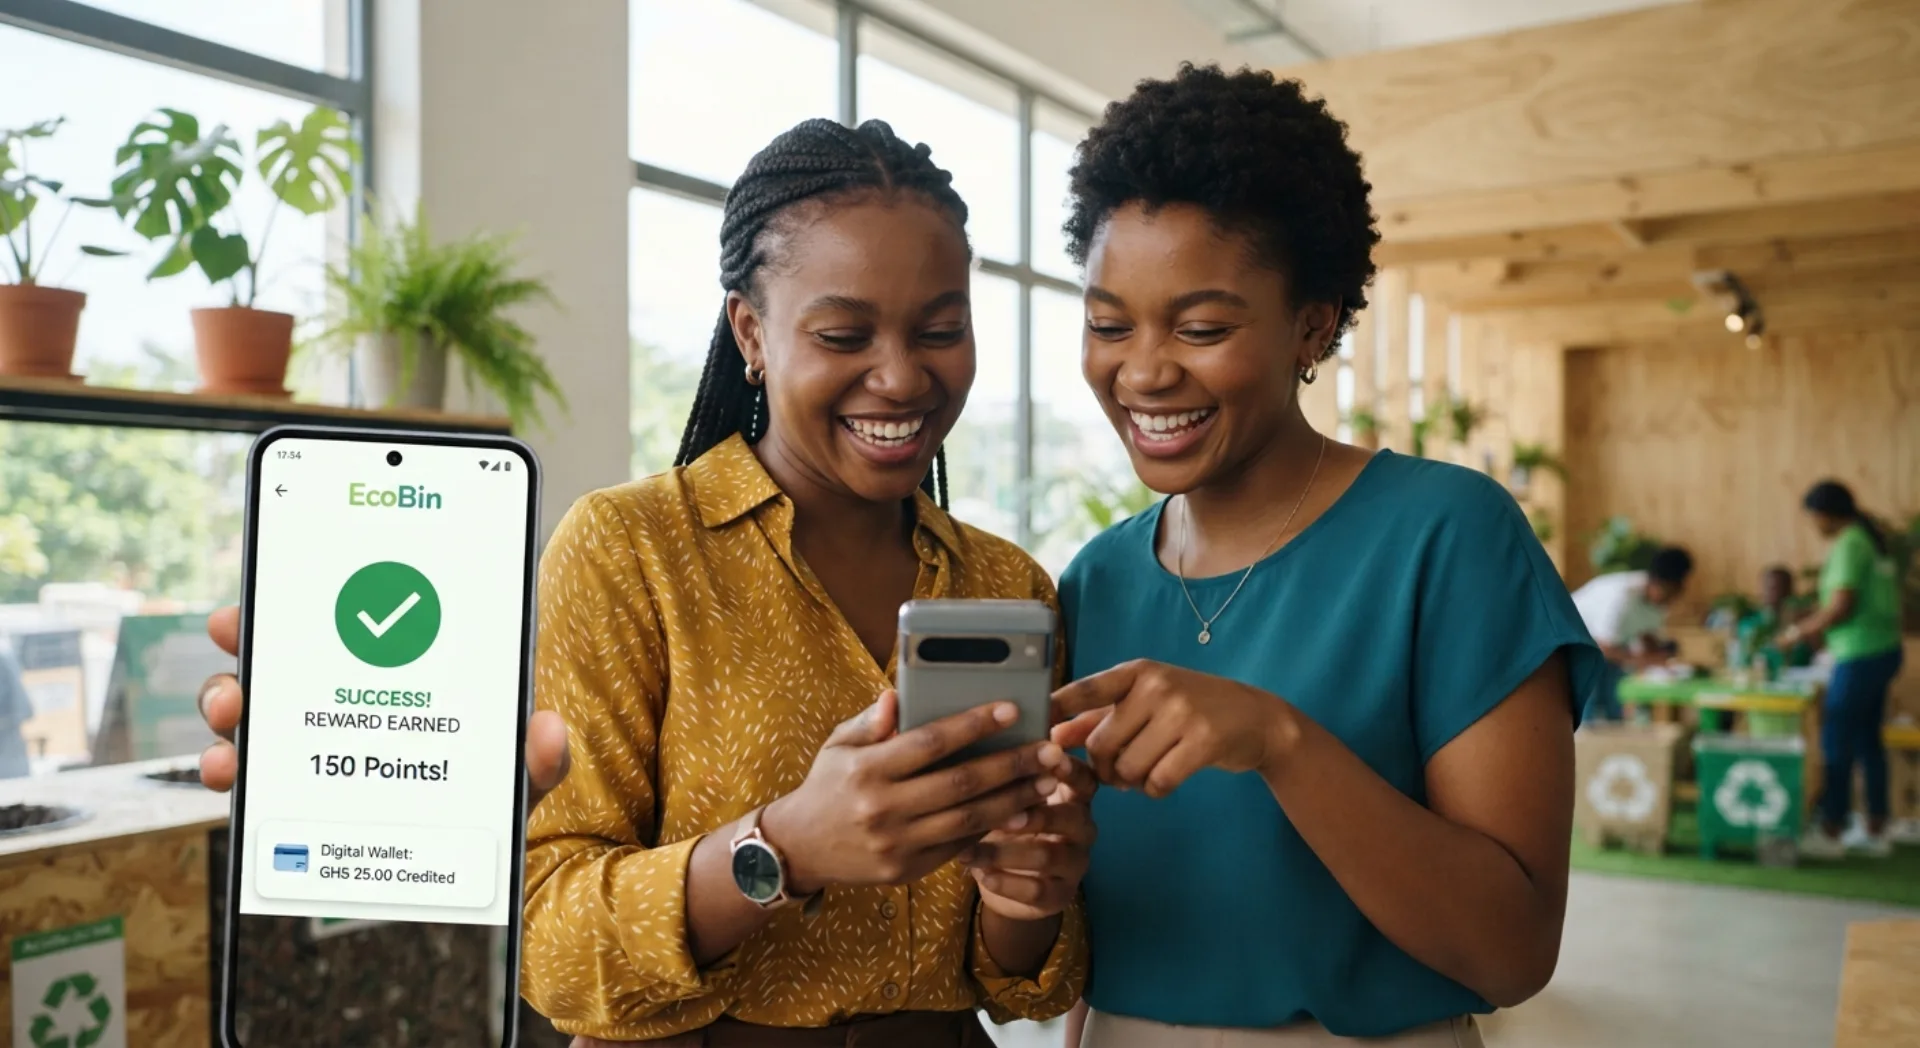
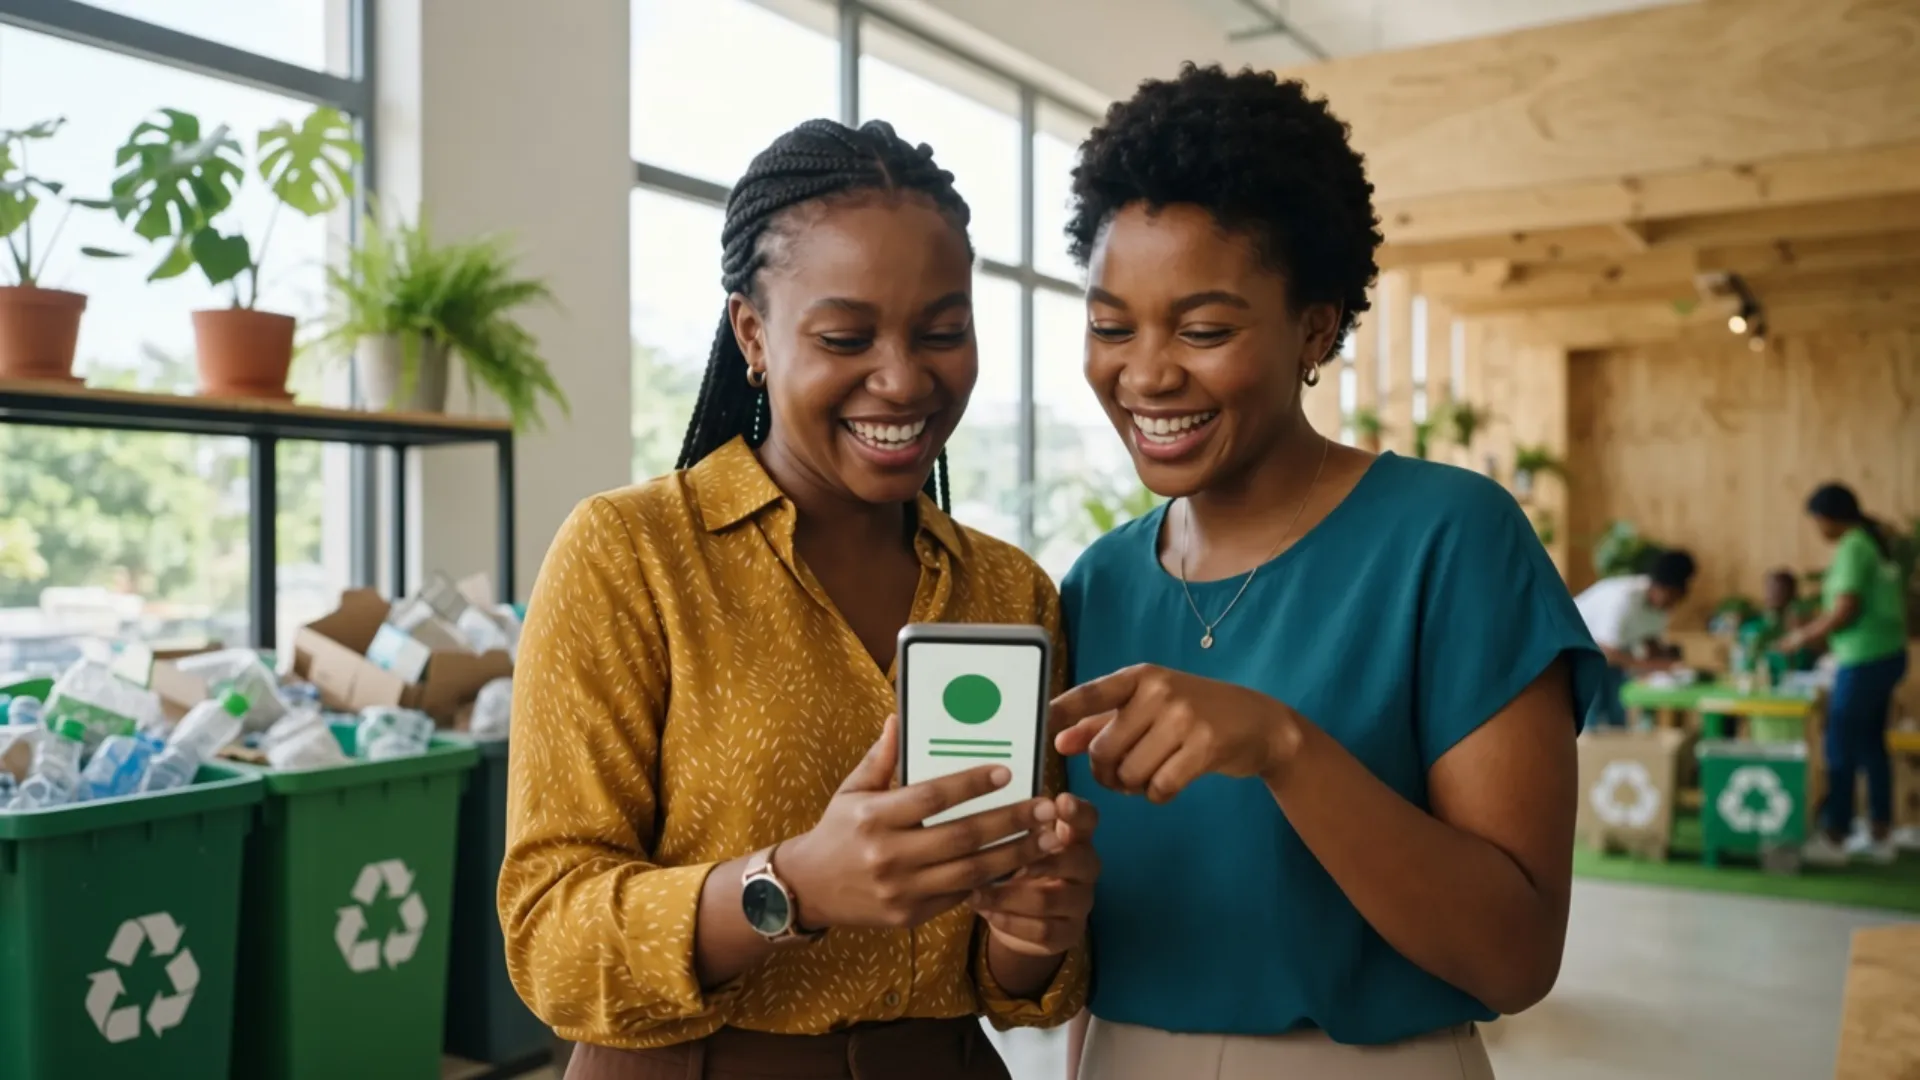
Update multiple components to enhance layout consistency and improve content clarity, including adjustments to padding, typography, and image sources.

diff --git a/src/components/Solutions.jsx b/src/components/Solutions.jsx
@@ -4,46 +4,83 @@ import { Eyebrow } from './Features.jsx'
 
 const solutions = [
   {
-    image: '/our-2.svg',
-    imageAlt: 'Hands holding a phone open to scheduled and past pickups',
-    title: 'Pickup Scheduling',
-    body: 'Request a pickup when your bin is actually full. Demand-based scheduling and route planning send trucks where they are needed and cut down unnecessary trips.',
-    points: [
-      'Collection planned from real bin conditions',
-      'Fewer overflowing bins and wasted visits',
-      'Routes and resources planned from data',
-    ],
-  },
-  {
-    image: '/our-4.svg',
-    imageAlt: 'Phone scanning a plastic bottle with the EcoBin app',
-    title: 'AI waste Scanner',
-    body: 'Point your phone at an item and get a suggestion for where it belongs. EcoBin is exploring AI-assisted waste identification to make sorting easier for every household.',
-    points: [
-      'Sorting guidance at the moment of disposal',
-      'Supports better separation and recovery',
-      'Educational tips that match what you scan',
-    ],
-  },
-  {
     image: '/our-1.svg',
     imageAlt: 'Hands holding a phone open to the EcoBin waste digital guide',
-    title: 'Waste Digital Guide',
-    body: 'Learn simple, proactive steps to properly rinse and prepare materials, ensuring your waste actually gets recycled instead of landfilled on our app.',
+    title: 'Waste Education & Digital Guide',
+    tagline: 'Know your waste. Make better choices.',
+    body: 'Learn how to sort, prepare and dispose of household waste responsibly with practical guides and educational resources in the EcoBin app.',
     points: [
-      'Receive safety-first prompts articles that instantly flag dangerous items like batteries, electronics, or medical waste and direct you to specialised drop-off points.',
-      'Discover how to avoid the common trap of throwing non-recyclable items into the recycling bin out of good intentions, keeping the overall waste stream clean.',
+      {
+        label: 'Prepare waste correctly:',
+        text: 'Learn how to clean, sort and prepare recyclable materials for recovery.',
+      },
+      {
+        label: 'Handle hazardous waste safely:',
+        text: 'Understand how to identify batteries, electronics, medical waste and other potentially hazardous items, with guidance on safer handling and appropriate disposal.',
+      },
+      {
+        label: "Avoid common sorting mistakes:",
+        text: "Know what belongs in your recycling bin and what doesn't, helping prevent contamination and improve material recovery.",
+      },
+    ],
+  },
+  {
+    image: '/our-2.svg',
+    imageAlt: 'Hands holding a phone open to scheduled and past pickups',
+    title: 'Smart Pickup Scheduling',
+    tagline: 'Waste collection when you need it.',
+    body: 'Whether you need a household waste pickup or manage waste collection across multiple locations, EcoBin makes collection management more convenient and efficient. Request collections when needed, monitor participating bins and use collection data to make better operational decisions.',
+    points: [
+      {
+        label: 'Flexible pickup requests:',
+        text: 'Request a collection when your bin is full, arrange bulky waste removal or schedule a one-time pickup after parties, events and other occasions.',
+      },
+      {
+        label: 'Smarter route planning:',
+        text: 'Use collection data to help plan efficient routes and allocate resources where they are needed.',
+      },
     ],
   },
   {
     image: '/our-3.svg',
     imageAlt: 'Phone showing a smart bin fill level and pickup chart',
     title: 'Smart Bin Monitoring',
-    body: 'Sensors on participating bins report how full they are, so collection needs are visible instead of guessed and overflow can be prevented.',
+    tagline: 'Know when your bin needs attention.',
+    body: "EcoBin's smart bin technology uses sensors to monitor waste levels in participating bins, providing better visibility into collection needs and helping prevent overflowing bins.",
     points: [
-      'Fill-level readings sent from the bin',
-      'Better visibility across participating households',
-      'Low-power connectivity explored for distributed bins',
+      {
+        label: 'Real-time fill-level visibility:',
+        text: 'Monitor how full participating bins are.',
+      },
+      {
+        label: 'Smarter collection decisions:',
+        text: 'Use bin-level information to identify which households need collection.',
+      },
+      {
+        label: 'Efficient connectivity:',
+        text: 'Explore low-power communication technologies to support reliable monitoring across distributed communities.',
+      },
+    ],
+  },
+  {
+    image: '/our-4.svg',
+    imageAlt: 'Phone scanning a plastic bottle with the EcoBin app',
+    title: 'AI-Powered Waste Scanner',
+    tagline: 'Not sure where it belongs? Just scan it.',
+    body: "Make waste sorting easier with AI-assisted identification. Simply point your phone's camera at an item and receive guidance on how to sort or dispose of it.",
+    points: [
+      {
+        label: 'Instant sorting guidance:',
+        text: 'Get suggestions on the appropriate waste category for an item.',
+      },
+      {
+        label: 'Better waste separation:',
+        text: 'Learn how to distinguish recyclable materials from other household waste.',
+      },
+      {
+        label: 'Learn as you scan:',
+        text: 'Discover useful disposal tips and educational information about the items you scan.',
+      },
     ],
   },
 ]
@@ -58,7 +95,7 @@ export default function Solutions() {
 
   return (
     <section id="features" className="scroll-mt-24 bg-white">
-      <div className="section-reveal mx-auto w-full max-w-[1200px] px-5 py-16 sm:px-6 lg:py-24">
+      <div className="section-reveal mx-auto w-full max-w-[1200px] px-5 py-16 sm:px-6 lg:py-[60px]">
         <div className="grid gap-6 lg:grid-cols-[1.05fr_0.95fr] lg:items-end lg:gap-16">
           <div>
             <Eyebrow>Our Solutions</Eyebrow>
@@ -88,16 +125,19 @@ export default function Solutions() {
               <h3 className="text-[28px] leading-tight font-medium tracking-tight text-ink sm:text-[36px]">
                 {slide.title}
               </h3>
+              <p className="mt-3 text-[16px] leading-relaxed font-semibold text-ink">{slide.tagline}</p>
               <p className="mt-4 text-[16px] leading-relaxed text-ink">{slide.body}</p>
               <ul className="mt-8 space-y-5">
                 {slide.points.map((point) => (
-                  <li key={point} className="flex items-start gap-3 text-[16px] leading-relaxed text-ink">
+                  <li key={point.label} className="flex items-start gap-3 text-[16px] leading-relaxed text-ink">
                     <LuCheck
                       className="mt-1 size-4 shrink-0 text-brand"
                       strokeWidth={2.5}
                       aria-hidden="true"
                     />
-                    <span>{point}</span>
+                    <span>
+                      <span className="font-semibold">{point.label}</span> {point.text}
+                    </span>
                   </li>
                 ))}
               </ul>

diff --git a/src/components/MissionVision.jsx b/src/components/MissionVision.jsx
@@ -10,8 +10,8 @@ function SectionLabel({ children }) {
 export default function MissionVision() {
   return (
     <>
-      <section id="mission" className="scroll-mt-24 bg-white">
-        <div className="mx-auto grid w-full max-w-[1200px] items-center gap-10 px-5 py-16 sm:px-6 lg:grid-cols-2 lg:gap-16 lg:py-20">
+      <section id="mission" className="scroll-mt-0 bg-white">
+        <div className="mx-auto grid w-full max-w-[1200px] items-center gap-10 px-5 py-16 sm:px-6 lg:grid-cols-2 lg:gap-16 lg:py-[60px]">
           <div className="motion-from-left">
             <SectionLabel>Our Mission</SectionLabel>
             <h2 className="mt-5 text-[40px] leading-[1.15] font-medium tracking-tight text-ink">
@@ -37,7 +37,7 @@ export default function MissionVision() {
       </section>
 
       <section id="vision" className="scroll-mt-24 bg-white">
-        <div className="mx-auto grid w-full max-w-[1200px] items-center gap-10 px-5 py-16 sm:px-6 lg:grid-cols-2 lg:gap-16 lg:py-20">
+        <div className="mx-auto grid w-full max-w-[1200px] items-center gap-10 px-5 py-16 sm:px-6 lg:grid-cols-2 lg:gap-16 lg:py-[60px]">
           <img
             src="/our-vision.webp"
             width="1200"
@@ -63,7 +63,7 @@ export default function MissionVision() {
       </section>
 
       <section id="values" className="scroll-mt-24 bg-[#f5f6f8]">
-        <div className="mx-auto grid w-full max-w-[1200px] items-center gap-10 px-5 py-16 sm:px-6 lg:grid-cols-2 lg:gap-16 lg:py-24">
+        <div className="mx-auto grid w-full max-w-[1200px] items-center gap-10 px-5 py-16 sm:px-6 lg:grid-cols-2 lg:gap-16 lg:py-[60px]">
           <div className="motion-from-left space-y-8">
             <div>
               <h2 className="text-[40px] font-medium tracking-tight text-ink">

diff --git a/src/components/Contact.jsx b/src/components/Contact.jsx
@@ -75,7 +75,7 @@ export default function Contact() {
 
   return (
     <section id="contact" className="scroll-mt-24 bg-white">
-      <div className="mx-auto w-full max-w-[1120px] px-5 py-8 pb-16 sm:px-6">
+      <div className="mx-auto w-full max-w-[1120px] px-5 py-8 pb-16 sm:px-6 lg:py-[60px]">
         <div className="section-reveal text-center">
           <h2 className="text-[40px] leading-[1.15] font-medium tracking-tight text-ink">
             Still have a question?
@@ -85,9 +85,9 @@ export default function Contact() {
 
         <div data-motion-group className="mt-10 grid gap-5 lg:grid-cols-[0.82fr_1.18fr]">
           <div className="motion-card flex min-h-0 flex-col rounded-[28px] bg-[#f4f6fb] p-8 sm:p-10 lg:h-[597px]">
-            <h3 className="text-[32px] leading-[1.15] font-bold tracking-tight sm:text-[40px]">
+            <h5 className="font-sans text-[32px] font-medium text-[#0F1621]">
               How to reach us?
-            </h3>
+            </h5>
             <ul className="mt-auto space-y-6 pt-16">
               <li>
                 <a href="tel:+233208420372" className="flex items-center gap-4 text-slate-800">
@@ -99,7 +99,7 @@ export default function Contact() {
               </li>
               <li>
                 <a
-                  href="https://www.google.com/maps/search/?api=1&query=Accra+Kasoa+Ghana"
+                  href="https://www.google.com/maps/search/?api=1&query=Trayton+Technologies"
                   target="_blank"
                   rel="noreferrer"
                   className="flex items-center gap-4 text-slate-800"

diff --git a/src/components/Rewards.jsx b/src/components/Rewards.jsx
@@ -13,18 +13,17 @@ export default function Rewards() {
           aria-hidden="true"
         />
         <div
-          className="pointer-events-none absolute inset-0 bg-gradient-to-b from-black/70 via-black/65 to-black/75"
+          className="pointer-events-none absolute inset-0 bg-gradient-to-r from-black/80 via-black/55 to-black/25"
           aria-hidden="true"
         />
 
         <div className="relative z-10 mx-auto flex max-w-3xl flex-col items-center">
           <h2 className="text-[40px] leading-[1.12] font-medium tracking-tight text-white">
-            Don&apos;t just Schedule pickups,
-            <br />
-            get excited and earn
+            Learn, Earn & Make a Difference.
           </h2>
-          <p className="mt-5 max-w-xl text-base leading-relaxed text-white/90 sm:text-lg">
-            Read articles, watch videos to earn free pickup on your next full bin
+          <p className="mt-5 max-w-2xl text-base leading-relaxed text-white/90 sm:text-lg">
+            Read articles, watch videos and complete quizzes to earn points. Redeem your points for
+            exciting rewards while building better waste habits.
           </p>
           <a
             href="#download"

diff --git a/src/components/HowItWorks.jsx b/src/components/HowItWorks.jsx
@@ -3,15 +3,14 @@ import { Eyebrow } from './Features.jsx'
 export default function HowItWorks() {
   return (
     <section id="how-it-works" className="scroll-mt-24 bg-white">
-      <div className="mx-auto w-full max-w-[1160px] px-5 py-16 sm:px-6 lg:py-24">
+      <div className="mx-auto w-full max-w-[1160px] px-5 py-16 sm:px-6 lg:py-[60px]">
         <div className="section-reveal mx-auto max-w-3xl text-center">
           <Eyebrow center>Let&apos;s Get Started</Eyebrow>
           <h2 className="mt-4 text-[40px] leading-[1.15] font-medium tracking-tight text-ink">
-            See how EcoBin Works
+            See How EcoBin Works
           </h2>
           <p className="mx-auto mt-5 max-w-2xl text-[16px] leading-relaxed text-ink">
-            EcoBin&apos;s on-demand waste collection platform offers scheduled pickups, pay-as-you-throw
-            pricing, and real-time tracking for Accra homes and businesses—all in a few taps.
+            Discover a smarter way to manage waste. EcoBin makes it easier to request waste collections, monitor bins, learn responsible disposal practices and support recycling, all through one connected platform.
           </p>
         </div>
 

diff --git a/src/components/Faq.jsx b/src/components/Faq.jsx
@@ -72,7 +72,7 @@ export default function Faq() {
 
   return (
     <section id="faq" className="scroll-mt-24 bg-white">
-      <div className="mx-auto w-full max-w-[1160px] px-5 pt-16 sm:px-6 lg:pt-24">
+      <div className="mx-auto w-full max-w-[1160px] px-5 pt-16 sm:px-6 lg:pt-[60px]">
         <div className="motion-card overflow-hidden rounded-[28px]">
           <img
             src="/footer-img.webp"
@@ -86,7 +86,7 @@ export default function Faq() {
         </div>
       </div>
 
-      <div className="mx-auto w-full max-w-[1031px] px-5 pt-16 pb-16 sm:px-6 lg:pt-24 lg:pb-24">
+      <div className="mx-auto w-full max-w-[1031px] px-5 pt-16 pb-16 sm:px-6 lg:pt-[60px] lg:pb-[60px]">
         <div className="section-reveal text-center">
           <Eyebrow center>FAQ&apos;S</Eyebrow>
           <h2 className="mt-4 text-[40px] leading-[1.15] font-medium tracking-tight text-ink">

diff --git a/src/components/WhyChooseUs.jsx b/src/components/WhyChooseUs.jsx
@@ -22,7 +22,7 @@ const priorities = [
 export default function WhyChooseUs() {
   return (
     <section id="why-choose" className="scroll-mt-24 bg-white">
-      <div className="mx-auto grid w-full max-w-[1200px] items-center gap-10 px-5 py-16 sm:px-6 lg:grid-cols-2 lg:gap-16 lg:py-24">
+      <div className="mx-auto grid w-full max-w-[1200px] items-center gap-10 px-5 py-16 sm:px-6 lg:grid-cols-2 lg:gap-16 lg:py-[60px]">
         <div className="motion-from-left">
           <Eyebrow>Why Choose Us?</Eyebrow>
           <h2 className="mt-4 text-[40px] leading-[1.15] font-medium tracking-tight text-ink">

diff --git a/src/components/Sdg.jsx b/src/components/Sdg.jsx
@@ -62,7 +62,7 @@ export default function Sdg() {
 
   return (
     <section id="sdg" className="scroll-mt-24 bg-[#212121]">
-      <div className="mx-auto w-full max-w-[1200px] px-5 py-16 sm:px-6 lg:py-24">
+      <div className="mx-auto w-full max-w-[1200px] px-5 py-16 sm:px-6 lg:py-[60px]">
         <div className="section-reveal mx-auto max-w-3xl text-center">
           <Eyebrow center>Sustainable Development Goals</Eyebrow>
           <h2 className="mt-4 text-[40px] leading-[1.15] font-medium tracking-tight text-white">

diff --git a/src/components/Community.jsx b/src/components/Community.jsx
@@ -44,7 +44,7 @@ const audiences = [
 export default function Community() {
   return (
     <section id="community" className="scroll-mt-24 bg-[#f5f6f8]">
-      <div className="mx-auto w-full max-w-[1200px] px-5 py-16 sm:px-6 lg:py-24">
+      <div className="mx-auto w-full max-w-[1200px] px-5 py-16 sm:px-6 lg:py-[60px]">
         <div className="section-reveal max-w-3xl">
           <Eyebrow>Who We Serve</Eyebrow>
           <h2 className="mt-4 text-[40px] leading-[1.15] font-medium tracking-tight text-ink">

diff --git a/src/components/About.jsx b/src/components/About.jsx
@@ -1,7 +1,7 @@
 export default function About() {
   return (
     <section id="about" className="scroll-mt-24 bg-white">
-      <div className="mx-auto grid w-full max-w-[1200px] items-center gap-10 px-5 py-16 sm:px-6 lg:grid-cols-2 lg:gap-16 lg:py-24">
+      <div className="mx-auto grid w-full max-w-[1200px] items-center gap-10 px-5 py-16 sm:px-6 lg:grid-cols-2 lg:gap-16 lg:py-[60px]">
         <img
           src="/pickup.webp"
           width="741"

diff --git a/src/components/SiteFooter.jsx b/src/components/SiteFooter.jsx
@@ -44,7 +44,7 @@ export default function SiteFooter() {
                 <br />
                 Get in touch:{' '}
                 <a href="mailto:hello@ecobin.eco" className="hover:text-white/80">
-                  ecobin@gmail.com
+                  hello@ecobin.eco
                 </a>
               </p>
             </div>
